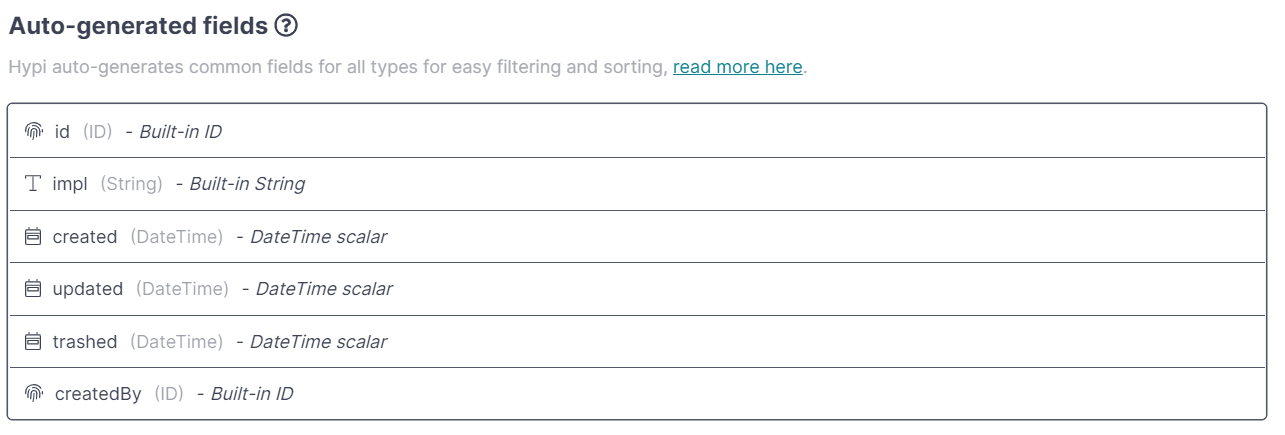
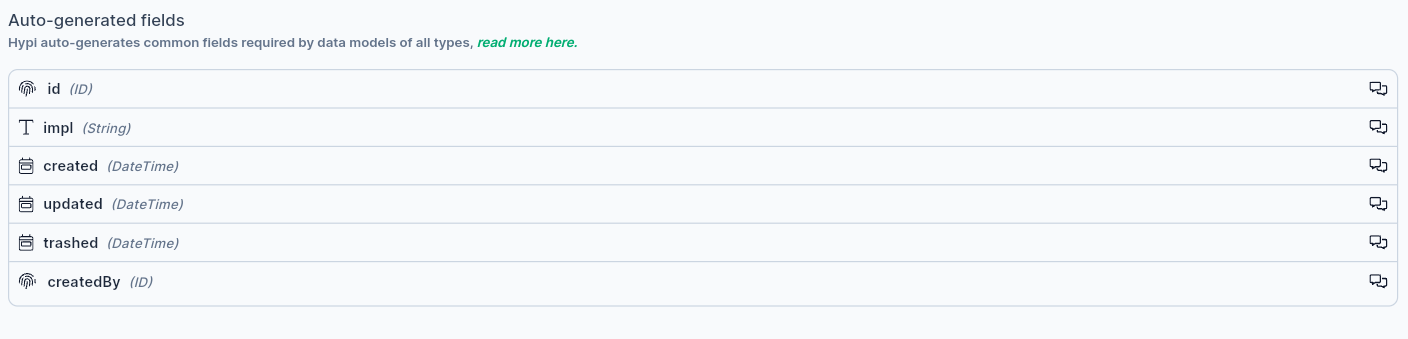
Collecions Updated

diff --git a/sidebars.js b/sidebars.js
@@ -17,8 +17,8 @@ module.exports = {
       },
       {
        type: 'category',
-       label: 'Data Tables',
-       items: ['stories-data-tables','data-tables','data-tables-versions','data-tables-environment','data-console'],
+       label: 'Collections',
+       items: ['data-tables','data-console'],
       },
       {
        type: 'category',

diff --git a/content/data-tables.md b/content/data-tables.md
@@ -1,19 +1,24 @@
 ---
 id: data-tables
-title: Tables
-sidebar_label: Tables
+title: Collections
+sidebar_label: Collections
 slug: /data-tables
 ---
 
-1. Click `Database Icon` on the top right corner of  the [Stories board](hypi-tink-stories.md) to add Tables.
+##  Overview
 
-![DataTable](/img/Data-Tables-1.PNG)
+After [adding User stories](hypi-tink-stories.md), you will have an idea of what kind of data needs to be stored. Based on that, you can design your data models. From the `App Designer` board, you can go to `Collections` to [add your data models/tables](data-tables.md).
 
-2. You will be able to create a Table adding the entries visually through UI. Click on the the `+Create A New Table` or Database icon to add a new table.
+##  Data Tables
+1. Click `Database Icon` on the left-hand side of the App Designer Board to add Tables.
+
+![DataTable](/img/Data-Collections-1.png)
+
+2. You will be able to create a Table adding the entries visually through UI. Click on the the `New Table` or Database icon to add a new table.
 
 ![DataTable](/img/Data-Tables-2.PNG)
 
-3. Name the table based upon your data model. Click `+Add New Field` to add fields/columns to the table.
+3. Name the table based upon your data model. Click `+Add Field` to add fields/columns to the table.
 
 ![DataTable](/img/Data-Tables-3.PNG)
 
@@ -21,7 +26,7 @@ slug: /data-tables
 
 ![DataTable](/img/Data-Tables-4.PNG)
 
-5. You can declare an array of a field type by clicking  `Allow Multiple Values`. You can also make a field mandatory by clicking  `Required`.
+5. You can declare a list of a field type by clicking  `This is a list of []`. You can also make a field mandatory by clicking  `This is a required field`.
 
 ![DataTable](/img/Data-Tables-5.PNG)
 
@@ -29,23 +34,16 @@ slug: /data-tables
 
 ![DataTable](/img/Data-Tables-6.PNG)
 
-7. Click the `Save Field` button to save the field.
+7. Click the `Save` button to save the field.
 
 ![DataTable](/img/Data-Tables-7.PNG)
 
-8. Table entries get saved in the table.
+8. Table entries get saved in the table. Currently you can't edit or delete the entries.
 
 ![DataTable](/img/Data-Tables-8.PNG)
 
-9. If you need to edit an entry, hover over the field and click the settings icon.
 
-![DataTable](/img/Data-Tables-9.PNG)
-
-10. You may delete the entries by clicking the delete icon. This option is available only under draft versions. For published versions, the fields will remain read-only.
-
-![DataTable](/img/Data-Tables-10.PNG)
-
-11. Hypi auto-generates common fields for all types for easy filtering and sorting. Read more about them [here](https://docs.hypi.app/docs/magic-hypi-object).
+10. Hypi auto-generates common fields for all types for easy filtering and sorting. Read more about them [here](https://docs.hypi.app/docs/magic-hypi-object).
 
 ![DataTable](/img/Data-Tables-11.PNG)
 
